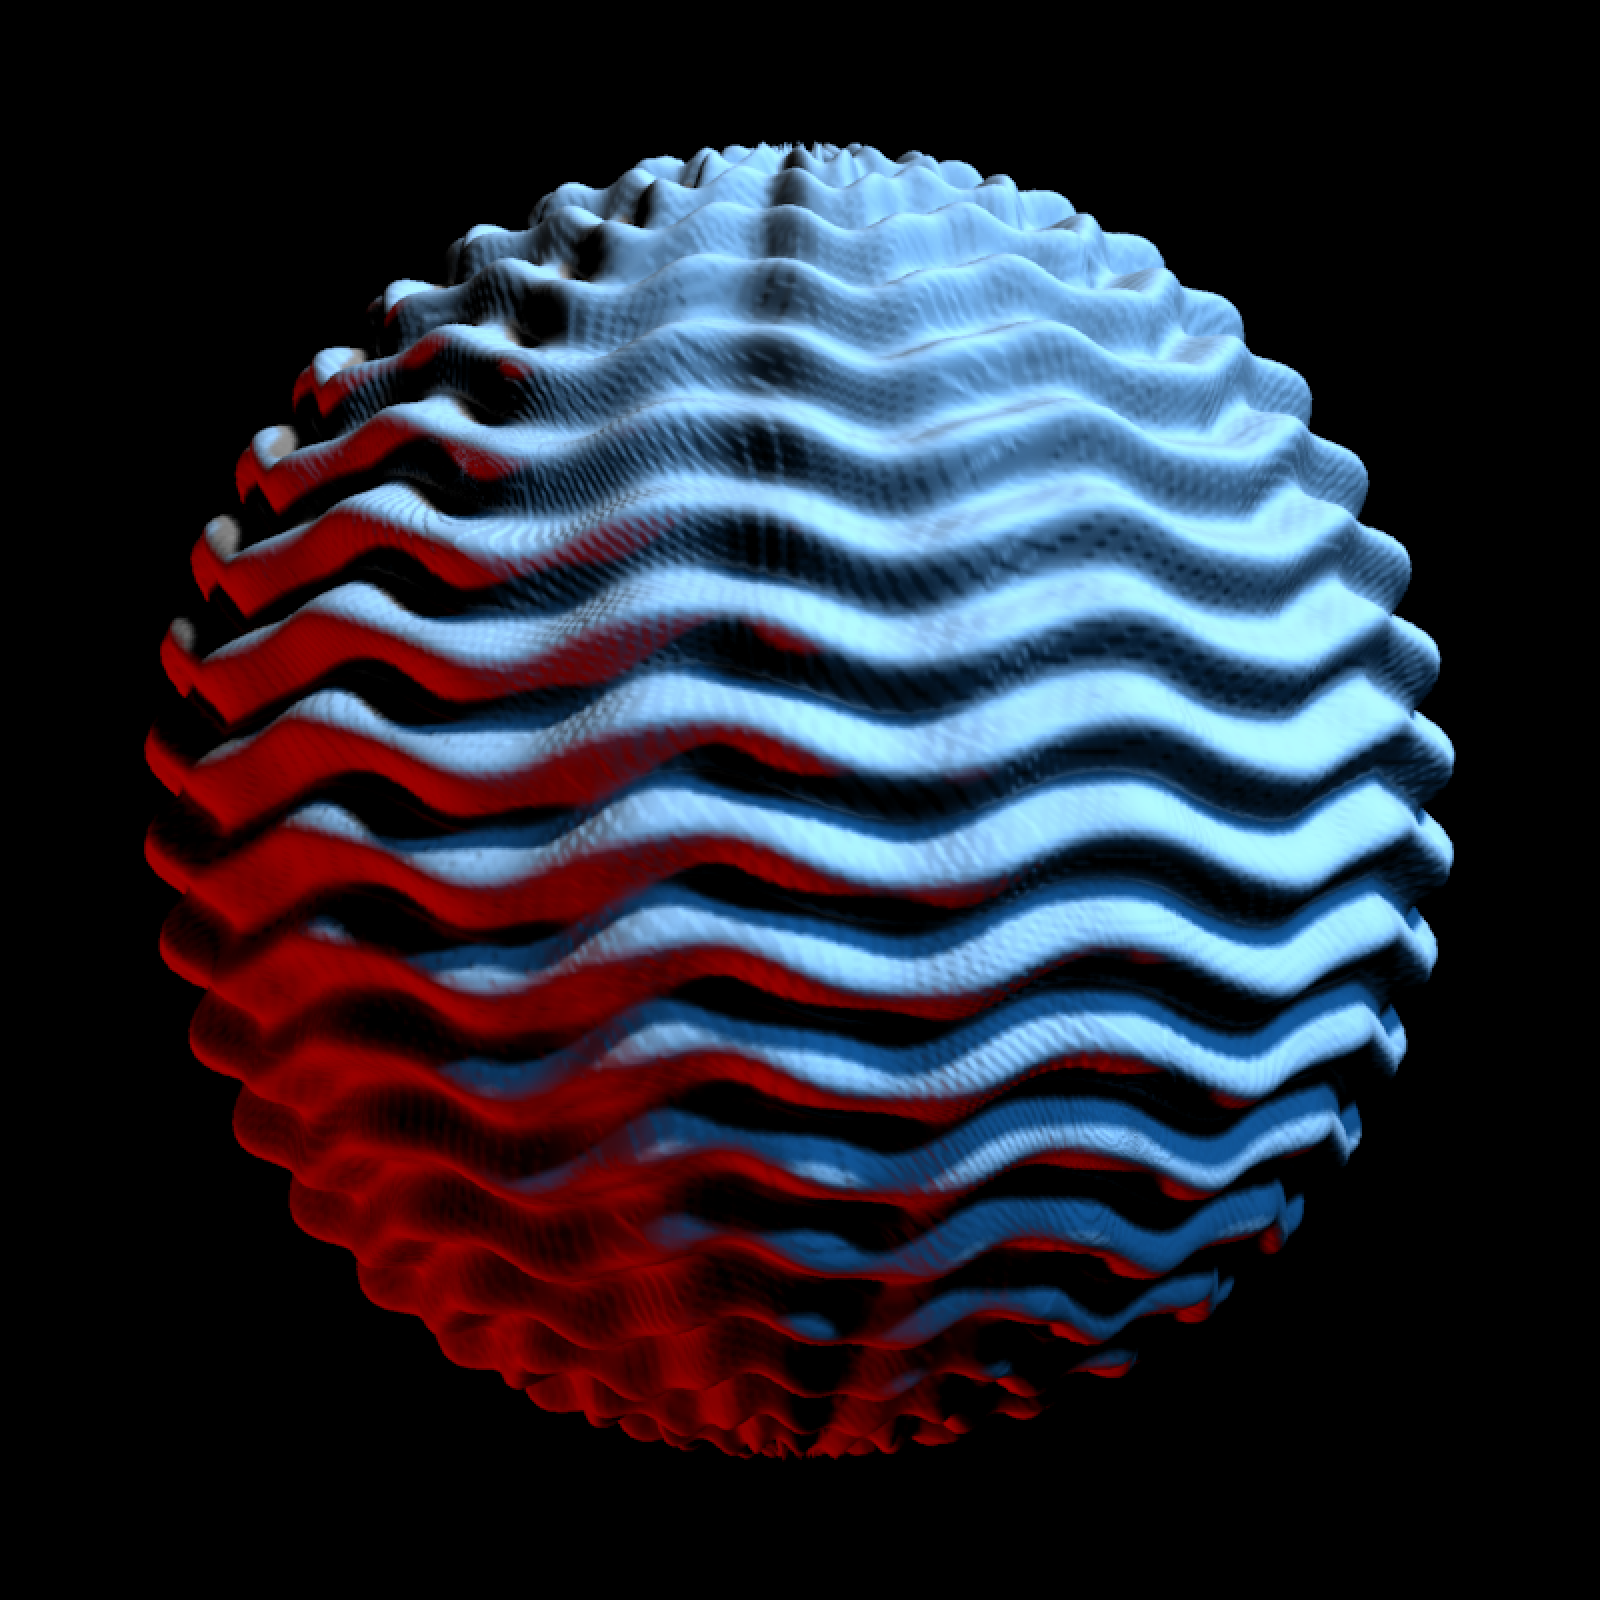
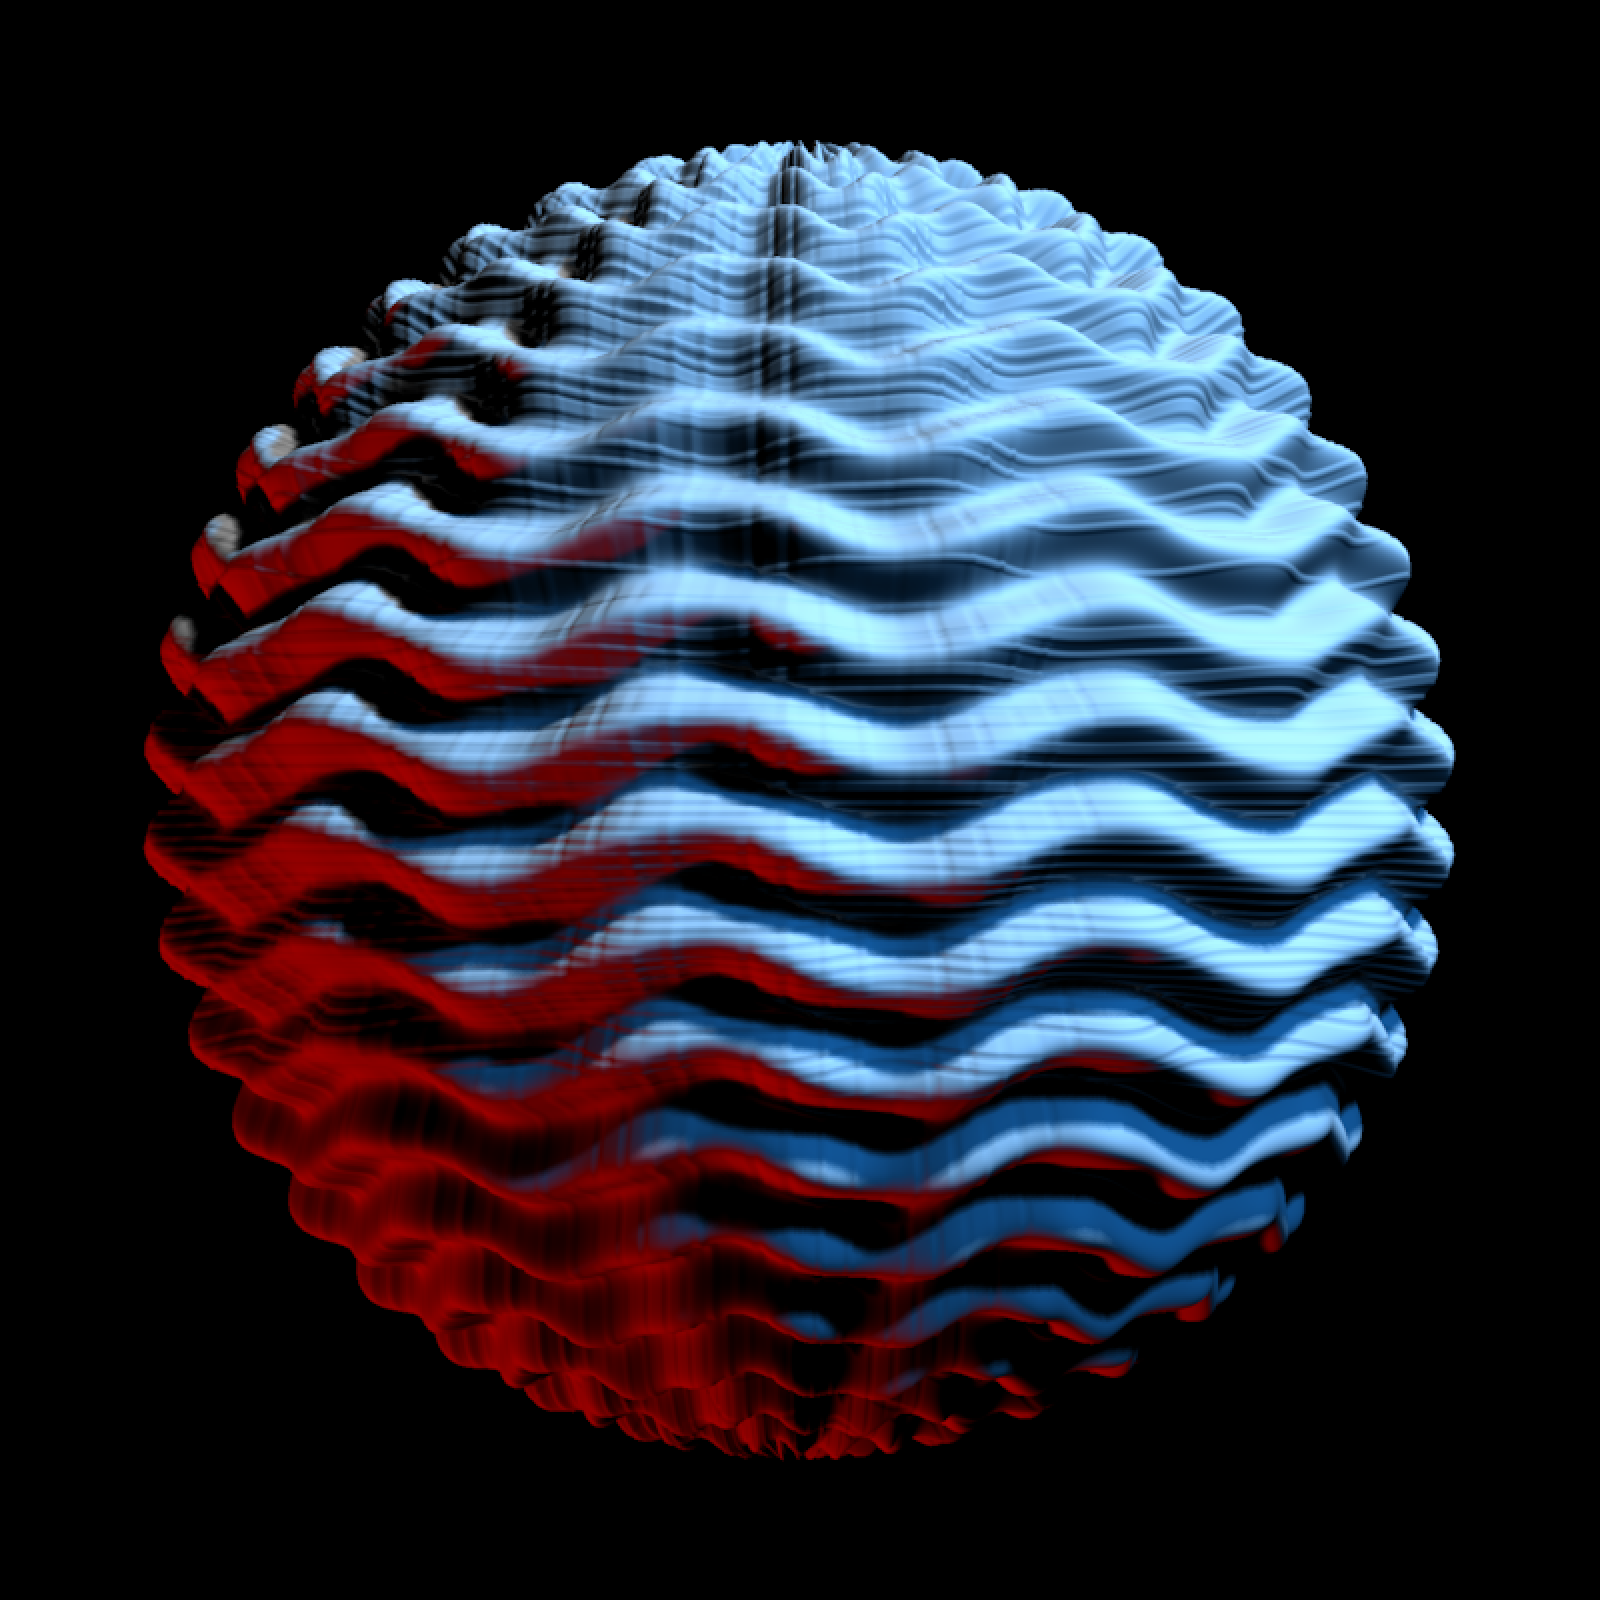
Deploying to gh-pages from @ tylermorganwall/rayvertex@ef2ef4926b6443504e2ccbda971d49d67e125e21 🚀

diff --git a/reference/displacement_sphere.html b/reference/displacement_sphere.html
@@ -64,7 +64,7 @@
     <div class="sourceCode"><pre class="sourceCode r"><code><span><span class="fu">displacement_sphere</span><span class="op">(</span></span>
 <span>  <span class="va">displacement_texture</span>,</span>
 <span>  displacement_scale <span class="op">=</span> <span class="fl">1</span>,</span>
-<span>  use_cube <span class="op">=</span> <span class="cn">TRUE</span>,</span>
+<span>  use_cube <span class="op">=</span> <span class="cn">FALSE</span>,</span>
 <span>  cube_subdivision_levels <span class="op">=</span> <span class="cn">NA</span>,</span>
 <span>  displace <span class="op">=</span> <span class="cn">TRUE</span>,</span>
 <span>  verbose <span class="op">=</span> <span class="cn">TRUE</span>,</span>
@@ -162,14 +162,14 @@ for later displacement.</p></dd>
 <span class="r-in"><span>displacement_scale <span class="op">=</span> <span class="fl">0.08</span>, verbose <span class="op">=</span> <span class="cn">TRUE</span><span class="op">)</span> <span class="op">|&gt;</span></span></span>
 <span class="r-in"><span>  <span class="fu"><a href="rasterize_scene.html">rasterize_scene</a></span><span class="op">(</span>light_info <span class="op">=</span> <span class="va">light_info</span>, fov<span class="op">=</span><span class="fl">15</span><span class="op">)</span></span></span>
 <span class="r-msg co"><span class="r-pr">#&gt;</span> Displacing mesh with 800x800 texture</span>
-<span class="r-msg co"><span class="r-pr">#&gt;</span> Setting `lookat` to: c(-0.00, 0.00, 0.00)</span>
+<span class="r-msg co"><span class="r-pr">#&gt;</span> Setting `lookat` to: c(-0.00, -0.00, -0.00)</span>
 <span class="r-plt img"><img src="displacement_sphere-2.png" alt="" width="800" height="800"></span>
 <span class="r-in"><span></span></span>
 <span class="r-in"><span><span class="co">#The default sphere has issues near the poles</span></span></span>
 <span class="r-in"><span><span class="fu">displacement_sphere</span><span class="op">(</span><span class="va">knit_texture</span>, displacement_scale <span class="op">=</span> <span class="fl">0.08</span><span class="op">)</span> <span class="op">|&gt;</span></span></span>
 <span class="r-in"><span>  <span class="fu"><a href="rasterize_scene.html">rasterize_scene</a></span><span class="op">(</span>light_info <span class="op">=</span> <span class="va">light_info</span>, fov<span class="op">=</span><span class="fl">10</span>, lookfrom<span class="op">=</span><span class="fu"><a href="https://rdrr.io/r/base/c.html" class="external-link">c</a></span><span class="op">(</span><span class="fl">0</span>,<span class="fl">10</span>,<span class="fl">10</span><span class="op">)</span><span class="op">)</span></span></span>
 <span class="r-msg co"><span class="r-pr">#&gt;</span> Displacing mesh with 800x800 texture</span>
-<span class="r-msg co"><span class="r-pr">#&gt;</span> Setting `lookat` to: c(-0.00, 0.00, 0.00)</span>
+<span class="r-msg co"><span class="r-pr">#&gt;</span> Setting `lookat` to: c(-0.00, -0.00, -0.00)</span>
 <span class="r-plt img"><img src="displacement_sphere-3.png" alt="" width="800" height="800"></span>
 <span class="r-in"><span></span></span>
 <span class="r-in"><span><span class="co"># A cube will render more nicely near the poles</span></span></span>

diff --git a/reference/add_plane_uv_mesh.html b/reference/add_plane_uv_mesh.html
@@ -156,8 +156,8 @@ bounding box is used for UV mapping.</p></dd>
 <span class="r-in"><span><span class="va">checkerboard_file</span> <span class="op">=</span> <span class="fu"><a href="https://rdrr.io/r/base/tempfile.html" class="external-link">tempfile</a></span><span class="op">(</span>fileext <span class="op">=</span> <span class="st">".png"</span><span class="op">)</span></span></span>
 <span class="r-in"><span><span class="fu">create_checkerboard_texture</span><span class="op">(</span><span class="va">checkerboard_file</span><span class="op">)</span></span></span>
 <span class="r-plt img"><img src="add_plane_uv_mesh-1.png" alt="" width="800" height="800"></span>
-<span class="r-out co"><span class="r-pr">#&gt;</span> agg_record_2050dc531cf </span>
-<span class="r-out co"><span class="r-pr">#&gt;</span>                      2 </span>
+<span class="r-out co"><span class="r-pr">#&gt;</span> agg_record_1fd6483b0510 </span>
+<span class="r-out co"><span class="r-pr">#&gt;</span>                       2 </span>
 <span class="r-in"><span><span class="fu">rayimage</span><span class="fu">::</span><span class="fu"><a href="https://www.rayimage.dev/reference/plot_image.html" class="external-link">plot_image</a></span><span class="op">(</span><span class="va">checkerboard_file</span><span class="op">)</span></span></span>
 <span class="r-plt img"><img src="add_plane_uv_mesh-2.png" alt="" width="800" height="800"></span>
 <span class="r-in"><span></span></span>